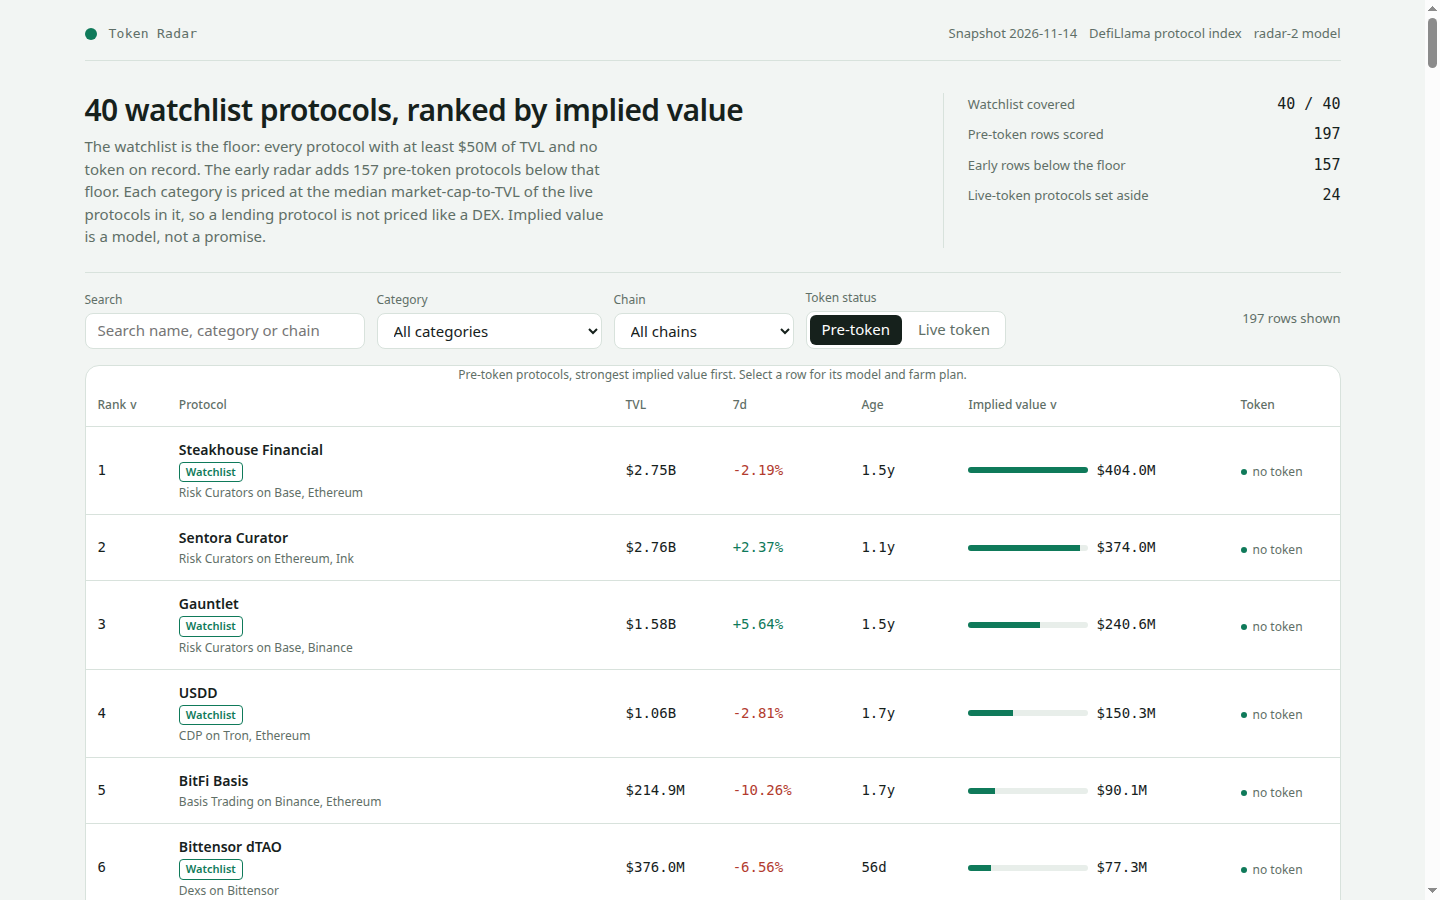
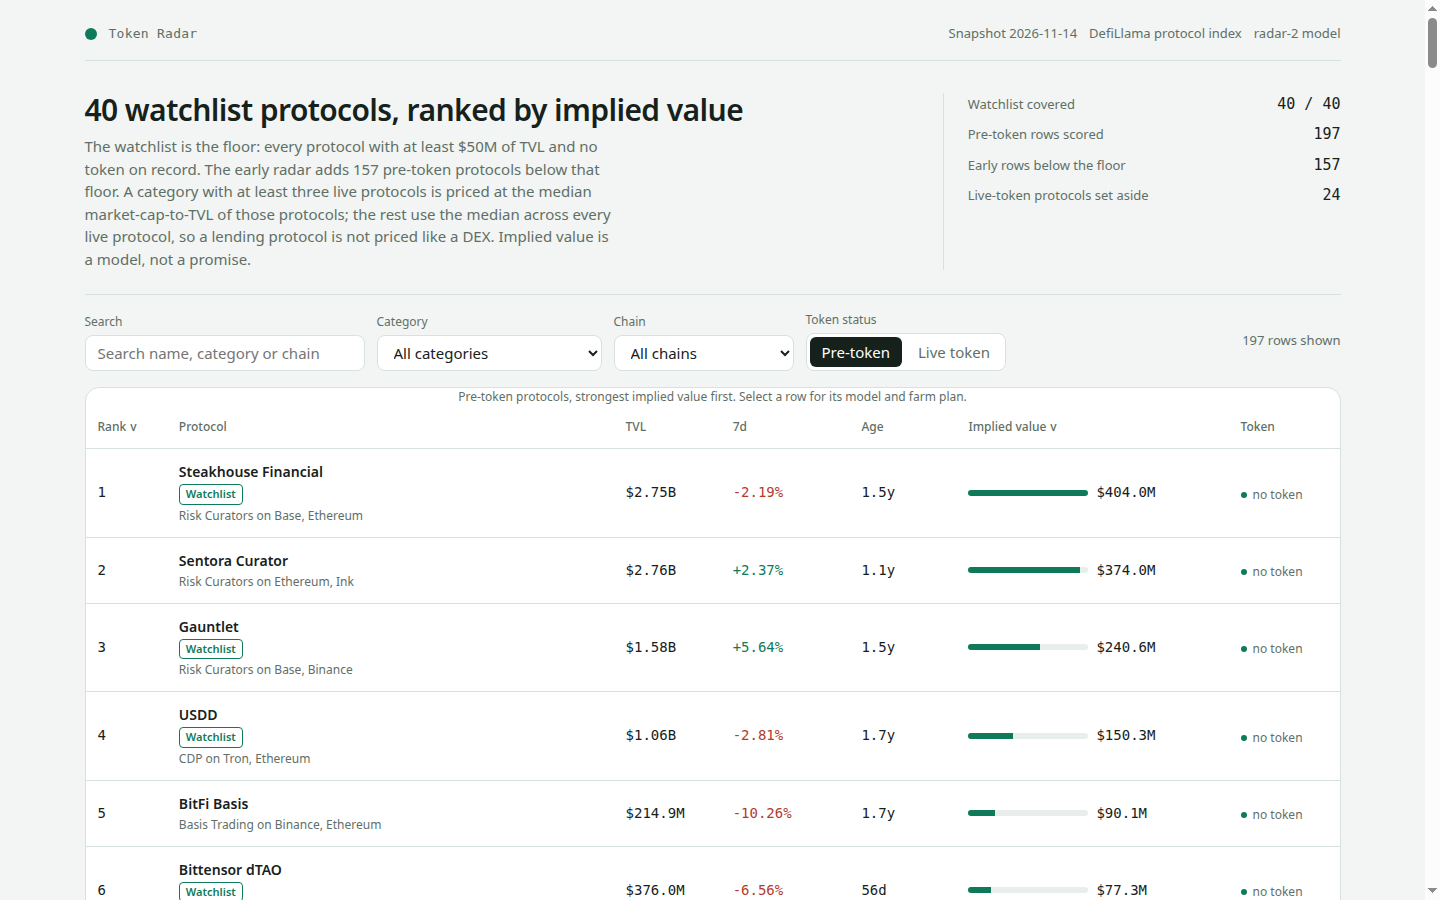
Token Radar: category-specific weekly farm actions and rewards checks
Farm plans were 5 generic steps out of 7: only the main action and the
second action depended on the category. Steps 4 (weekly action) and 6
(rewards check) are now category-specific too, from the same rule table
the main and second actions use, in lib/model.ts and in the page's own
generator in dashboard/app.js (verified identical for one row per rule).
The lede now states the fallback rule accurately instead of claiming
every category is priced from its own live protocols, and the detail
screenshot is retaken with the drawer scrolled to the full farm plan.
The value model is untouched: ranks and implied values are identical,
gate 7/7 PASS, two runs byte-identical.

diff --git a/lib/model.ts b/lib/model.ts
@@ -432,11 +432,14 @@ function holdDaysFor(age: number | null): number {
 }
 
 /** The category's main action, phrased so a farmer can follow it. */
-/** One category rule: how to spot the category, and the two actions that farm it. */
+/** One category rule: how to spot the category, and the four actions that farm it. */
 interface CategoryRule {
   match: (category: string) => boolean;
   main: (name: string, capital: number, chain: string) => string;
   second: (name: string, capital: number, chain: string, small: number) => string;
+  weekly: (name: string, capital: number, chain: string, small: number) => string;
+  weeklyCost: string;
+  rewards: (name: string) => string;
 }
 
 /** Whether a lowercased category contains any of these words. */
@@ -453,81 +456,129 @@ const CATEGORY_RULES: CategoryRule[] = [
     match: (c) => hasAny(c, ['lend', 'cdp', 'collateral']),
     main: (name, capital, chain) => `Supply $${capital} of USDC to ${name} on ${chain} and keep the position open.`,
     second: (name, capital, chain, small) => `Borrow $${small} against the supply on ${name}, then repay it in the same week.`,
+    weekly: (name, capital, chain, small) => `Each week, supply $${small} more to ${name} or borrow $${small} against the supply and repay it.`,
+    weeklyCost: 'about $2 of gas a week',
+    rewards: (name) => `Check ${name}'s rewards page for supply and borrow incentives and follow only the quests it lists there; never pay to claim and never use a link from a chat or a post.`,
   },
   {
     match: (c) => hasAny(c, ['dex', 'yield', 'leveraged farm', 'farm']),
     main: (name, capital, chain) => `Provide $${capital} of liquidity to ${name}'s main pool on ${chain} and keep the position open.`,
     second: (name, capital, chain) => `Make one swap through ${name}'s main pool on ${chain} for about $10 of volume.`,
+    weekly: (name, capital, chain, small) => `Each week, collect the fees ${name}'s pool earned and compound them back in.`,
+    weeklyCost: 'about $2 of gas a week',
+    rewards: (name) => `Check ${name}'s points page for LP and swap quests and follow only the quests it lists there; never pay to claim and never use a link from a chat or a post.`,
   },
   {
     match: (c) => hasAny(c, ['bridge']),
     main: (name, capital, chain) => `Bridge $${capital} of USDC to ${chain} through ${name} and use the bridged funds in its app.`,
     second: (name) => `Bridge a small amount back through ${name} so the round trip is on record.`,
+    weekly: (name, capital, chain, small) => `Each week, bridge $${small} to ${chain} through ${name} and use the bridged funds.`,
+    weeklyCost: 'about $2 of gas a week',
+    rewards: (name) => `Check ${name}'s rewards page for bridge quests and follow only the quests it lists there; never pay to claim and never use a link from a chat or a post.`,
   },
   {
     match: (c) => hasAny(c, ['staking', 'restak']),
     main: (name, capital) => `Stake $${capital} of the chain's staking asset through ${name} and keep the receipt.`,
     second: (name) => `Claim the staking rewards ${name} shows and restake them in the same position.`,
+    weekly: (name, capital, chain, small) => `Each week, top up the stake on ${name} by $${small}.`,
+    weeklyCost: 'about $2 of gas a week',
+    rewards: (name) => `Check ${name}'s staking page for staking quests and follow only the quests it lists there; never pay to claim and never use a link from a chat or a post.`,
   },
   {
     match: (c) => hasAny(c, ['perpetual', 'derivative', 'basis']),
     main: (name, capital) => `Deposit $${capital} of USDC as margin on ${name} and open one small hedge.`,
     second: (name) => `Close the hedge on ${name} and open a fresh one half its size.`,
+    weekly: (name, capital, chain, small) => `Each week, open one small hedge on ${name} and close it before the week ends.`,
+    weeklyCost: 'about $2 of gas a week',
+    rewards: (name) => `Check ${name}'s trading rewards page for volume quests and follow only the quests it lists there; never pay to claim and never use a link from a chat or a post.`,
   },
   {
     match: (c) => hasAny(c, ['prediction']),
     main: (name, capital) => `Fund $${capital} and place one market position on ${name}.`,
     second: (name) => `Settle one market on ${name} and place a second position in another.`,
+    weekly: (name, capital, chain, small) => `Each week, place a $10 market position on ${name} in a market closing that week.`,
+    weeklyCost: 'about $2 of gas a week',
+    rewards: (name) => `Check ${name}'s rewards page for market quests and follow only the quests it lists there; never pay to claim and never use a link from a chat or a post.`,
   },
   {
     match: (c) => hasAny(c, ['curator', 'allocator']),
     main: (name, capital, chain) => `Deposit $${capital} into a ${name} vault on ${chain} and keep the shares.`,
     second: (name, capital, chain, small) => `Move $${small} into a second ${name} vault on ${chain}.`,
+    weekly: (name, capital, chain, small) => `Each week, check the ${name} vaults' yields and move $${small} to the highest-yielding vault on ${chain}.`,
+    weeklyCost: 'about $2 of gas a week',
+    rewards: (name) => `Check ${name}'s vault rewards page for deposit quests and follow only the quests it lists there; never pay to claim and never use a link from a chat or a post.`,
   },
   {
     match: (c) => hasAny(c, ['stable']),
     main: (name, capital, chain) => `Mint or deposit $${capital} of the stable asset through ${name} on ${chain}.`,
     second: (name) => `Redeem a small part of the stable position on ${name} and mint it back.`,
+    weekly: (name, capital, chain, small) => `Each week, move $${small} of the stable asset through ${name} into a yield venue on ${chain}.`,
+    weeklyCost: 'about $2 of gas a week',
+    rewards: (name) => `Check ${name}'s rewards page for stable-mint quests and follow only the quests it lists there; never pay to claim and never use a link from a chat or a post.`,
   },
   {
     match: (c) => hasAny(c, ['rwa']),
     main: (name, capital, chain) => `Mint $${capital} of the protocol's yield asset on ${chain} and hold it.`,
     second: (name) => `Claim the yield the ${name} asset accrued and hold the rest.`,
+    weekly: (name, capital, chain, small) => `Each week, mint $${small} more of the ${name} yield asset on ${chain} and hold it.`,
+    weeklyCost: 'about $2 of gas a week',
+    rewards: (name) => `Check ${name}'s rewards page for holding quests and follow only the quests it lists there; never pay to claim and never use a link from a chat or a post.`,
   },
   {
     match: (c) => hasAny(c, ['insurance']),
     main: (name, capital, chain) => `Buy $${capital} of cover from ${name} on ${chain} and keep the policy.`,
     second: (name) => `File one test claim on ${name} to learn the flow, then keep the policy.`,
+    weekly: (name, capital, chain, small) => `Each week, check the ${name} cover on ${chain} and extend it before it lapses.`,
+    weeklyCost: 'the weekly premium, plus about $2 of gas',
+    rewards: (name) => `Check ${name}'s rewards page for cover quests and follow only the quests it lists there; never pay to claim and never use a link from a chat or a post.`,
   },
   {
     match: (c) => hasAny(c, ['options']),
     main: (name, capital, chain) => `Deposit $${capital} into an ${name} options vault on ${chain} and keep the shares.`,
     second: (name) => `Roll one options position in the ${name} vault to the next expiry.`,
+    weekly: (name, capital, chain, small) => `Each week, add $${small} to the ${name} options vault on ${chain} and keep the shares.`,
+    weeklyCost: 'about $2 of gas a week',
+    rewards: (name) => `Check ${name}'s vault rewards page for deposit quests and follow only the quests it lists there; never pay to claim and never use a link from a chat or a post.`,
   },
   {
     match: (c) => hasAny(c, ['index']),
     main: (name, capital, chain) => `Buy $${capital} of the ${name} index on ${chain} and hold it.`,
     second: (name) => `Rebalance the ${name} index holding once, then hold it again.`,
+    weekly: (name, capital, chain, small) => `Each week, buy $${small} more of the ${name} index on ${chain} and hold it.`,
+    weeklyCost: 'about $2 of gas a week',
+    rewards: (name) => `Check ${name}'s rewards page for holding quests and follow only the quests it lists there; never pay to claim and never use a link from a chat or a post.`,
   },
   {
     match: (c) => hasAny(c, ['payment', 'card']),
     main: (name, capital, chain) => `Top up $${capital} through ${name} on ${chain} and spend from the balance.`,
     second: (name) => `Make one purchase with the ${name} balance and top it up again.`,
+    weekly: (name, capital, chain, small) => `Each week, top up the ${name} balance by $${small} and spend it from the balance.`,
+    weeklyCost: 'about $2 of gas a week',
+    rewards: (name) => `Check ${name}'s rewards page for spend quests and follow only the quests it lists there; never pay to claim and never use a link from a chat or a post.`,
   },
   {
     match: (c) => hasAny(c, ['chain']),
     main: (name, capital, chain) => `Bridge $${capital} to ${chain} and use one native app on it through ${name}.`,
     second: (name, capital, chain) => `Use a second native app on ${chain} through ${name} in the same week.`,
+    weekly: (name, capital, chain, small) => `Each week, use a native app on ${chain} through ${name} that you have not used yet.`,
+    weeklyCost: 'about $2 of gas a week',
+    rewards: (name) => `Check ${name}'s ecosystem quests page for ecosystem quests and follow only the quests it lists there; never pay to claim and never use a link from a chat or a post.`,
   },
   {
     match: (c) => hasAny(c, ['privacy']),
     main: (name, capital, chain) => `Deposit $${capital} into ${name}'s shielded pool on ${chain} and keep the receipt.`,
     second: (name) => `Withdraw a small amount from the ${name} pool and deposit it back.`,
+    weekly: (name, capital, chain, small) => `Each week, move $${small} between two shielded pools on ${name}.`,
+    weeklyCost: 'about $2 of gas a week',
+    rewards: (name) => `Check ${name}'s rewards page for pool quests and follow only the quests it lists there; never pay to claim and never use a link from a chat or a post.`,
   },
   {
     match: () => true,
     main: (name, capital, chain) => `Deposit $${capital} of USDC into ${name} on ${chain} and keep the position open.`,
     second: (name) => `Do one more distinct action on ${name}, such as a swap, a vote or a second deposit.`,
+    weekly: (name, capital, chain, small) => `Each week, make one qualifying action on ${name}, such as a deposit, a borrow, a swap or a vote.`,
+    weeklyCost: 'about $2 of gas a week',
+    rewards: (name) => `Once a week open the protocol's own points or rewards page and follow only the quests it lists there; never pay to claim and never use a link from a chat or a post.`,
   },
 ];
 
@@ -551,9 +602,27 @@ function secondActionFor(p: SnapshotProtocol, capital: number, chain: string): s
   return ruleFor(p.category).second(p.name, capital, chain, small);
 }
 
+/** The category's weekly action: a small repeatable touch, so the plan keeps working week after week. */
+function weeklyActionFor(p: SnapshotProtocol, capital: number, chain: string): string {
+  const small = Math.max(10, Math.round(capital / 5));
+  return ruleFor(p.category).weekly(p.name, capital, chain, small);
+}
+
+/** The weekly action's cost, which the rule states because a premium is not gas. */
+function weeklyCostFor(p: SnapshotProtocol): string {
+  return ruleFor(p.category).weeklyCost;
+}
+
+/** The category's rewards check: which page to watch and what to follow there. */
+function rewardsActionFor(p: SnapshotProtocol): string {
+  return ruleFor(p.category).rewards(p.name);
+}
+
 /**
  * One protocol's farm plan: seven steps, each an action with a cost and a time. The plan is derived
  * from the protocol's own record (category, chains, TVL, age), never from a hand-written list of names.
+ * Steps 2, 3, 4 and 6 are category-specific; steps 1, 5 and 7 keep the same shape for every protocol
+ * because wallet hygiene, the hold and the log do not depend on the category.
  */
 export function farmSteps(p: SnapshotProtocol, age: number | null): FarmStep[] {
   const chain = chainOf(p);
@@ -576,8 +645,8 @@ export function farmSteps(p: SnapshotProtocol, age: number | null): FarmStep[] {
       time: '10 minutes',
     },
     {
-      text: `Make one qualifying action each week, such as a deposit, a borrow, a swap or a vote.`,
-      cost: 'about $2 of gas a week',
+      text: weeklyActionFor(p, capital, chain),
+      cost: weeklyCostFor(p),
       time: '10 minutes a week',
     },
     {
@@ -586,7 +655,7 @@ export function farmSteps(p: SnapshotProtocol, age: number | null): FarmStep[] {
       time: `${hold} days`,
     },
     {
-      text: `Once a week open the protocol's own points or rewards page and follow only the quests it lists there; never pay to claim and never use a link from a chat or a post.`,
+      text: rewardsActionFor(p),
       cost: 'no fee to check',
       time: '10 minutes a week',
     },

diff --git a/dashboard/app.js b/dashboard/app.js
@@ -120,6 +120,52 @@
     if (c.indexOf('privacy') >= 0) return 'Withdraw a small amount from the ' + name + ' pool and deposit it back.';
     return 'Do one more distinct action on ' + name + ', such as a swap, a vote or a second deposit.';
   }
+  function weeklyActionFor(p, capital, chain) {
+    var c = (p.category || '').toLowerCase();
+    var name = p.name;
+    var small = Math.max(10, Math.round(capital / 5));
+    if (c.indexOf('lend') >= 0 || c.indexOf('cdp') >= 0 || c.indexOf('collateral') >= 0) return 'Each week, supply $' + small + ' more to ' + name + ' or borrow $' + small + ' against the supply and repay it.';
+    if (c.indexOf('dex') >= 0 || c.indexOf('yield') >= 0 || c.indexOf('leveraged farm') >= 0 || c.indexOf('farm') >= 0) return "Each week, collect the fees " + name + "'s pool earned and compound them back in.";
+    if (c.indexOf('bridge') >= 0) return 'Each week, bridge $' + small + ' to ' + chain + ' through ' + name + ' and use the bridged funds.';
+    if (c.indexOf('staking') >= 0 || c.indexOf('restak') >= 0) return 'Each week, top up the stake on ' + name + ' by $' + small + '.';
+    if (c.indexOf('perpetual') >= 0 || c.indexOf('derivative') >= 0 || c.indexOf('basis') >= 0) return 'Each week, open one small hedge on ' + name + ' and close it before the week ends.';
+    if (c.indexOf('prediction') >= 0) return 'Each week, place a $10 market position on ' + name + ' in a market closing that week.';
+    if (c.indexOf('curator') >= 0 || c.indexOf('allocator') >= 0) return "Each week, check the " + name + " vaults' yields and move $" + small + ' to the highest-yielding vault on ' + chain + '.';
+    if (c.indexOf('stable') >= 0) return 'Each week, move $' + small + ' of the stable asset through ' + name + ' into a yield venue on ' + chain + '.';
+    if (c.indexOf('rwa') >= 0) return 'Each week, mint $' + small + ' more of the ' + name + ' yield asset on ' + chain + ' and hold it.';
+    if (c.indexOf('insurance') >= 0) return 'Each week, check the ' + name + ' cover on ' + chain + ' and extend it before it lapses.';
+    if (c.indexOf('options') >= 0) return 'Each week, add $' + small + ' to the ' + name + ' options vault on ' + chain + ' and keep the shares.';
+    if (c.indexOf('index') >= 0) return 'Each week, buy $' + small + ' more of the ' + name + ' index on ' + chain + ' and hold it.';
+    if (c.indexOf('payment') >= 0 || c.indexOf('card') >= 0) return 'Each week, top up the ' + name + ' balance by $' + small + ' and spend it from the balance.';
+    if (c.indexOf('chain') >= 0) return 'Each week, use a native app on ' + chain + ' through ' + name + ' that you have not used yet.';
+    if (c.indexOf('privacy') >= 0) return 'Each week, move $' + small + ' between two shielded pools on ' + name + '.';
+    return 'Each week, make one qualifying action on ' + name + ', such as a deposit, a borrow, a swap or a vote.';
+  }
+  function weeklyCostFor(p) {
+    var c = (p.category || '').toLowerCase();
+    if (c.indexOf('insurance') >= 0) return 'the weekly premium, plus about $2 of gas';
+    return 'about $2 of gas a week';
+  }
+  function rewardsActionFor(p) {
+    var c = (p.category || '').toLowerCase();
+    var name = p.name;
+    if (c.indexOf('lend') >= 0 || c.indexOf('cdp') >= 0 || c.indexOf('collateral') >= 0) return "Check " + name + "'s rewards page for supply and borrow incentives and follow only the quests it lists there; never pay to claim and never use a link from a chat or a post.";
+    if (c.indexOf('dex') >= 0 || c.indexOf('yield') >= 0 || c.indexOf('leveraged farm') >= 0 || c.indexOf('farm') >= 0) return "Check " + name + "'s points page for LP and swap quests and follow only the quests it lists there; never pay to claim and never use a link from a chat or a post.";
+    if (c.indexOf('bridge') >= 0) return "Check " + name + "'s rewards page for bridge quests and follow only the quests it lists there; never pay to claim and never use a link from a chat or a post.";
+    if (c.indexOf('staking') >= 0 || c.indexOf('restak') >= 0) return "Check " + name + "'s staking page for staking quests and follow only the quests it lists there; never pay to claim and never use a link from a chat or a post.";
+    if (c.indexOf('perpetual') >= 0 || c.indexOf('derivative') >= 0 || c.indexOf('basis') >= 0) return "Check " + name + "'s trading rewards page for volume quests and follow only the quests it lists there; never pay to claim and never use a link from a chat or a post.";
+    if (c.indexOf('prediction') >= 0) return "Check " + name + "'s rewards page for market quests and follow only the quests it lists there; never pay to claim and never use a link from a chat or a post.";
+    if (c.indexOf('curator') >= 0 || c.indexOf('allocator') >= 0) return "Check " + name + "'s vault rewards page for deposit quests and follow only the quests it lists there; never pay to claim and never use a link from a chat or a post.";
+    if (c.indexOf('stable') >= 0) return "Check " + name + "'s rewards page for stable-mint quests and follow only the quests it lists there; never pay to claim and never use a link from a chat or a post.";
+    if (c.indexOf('rwa') >= 0) return "Check " + name + "'s rewards page for holding quests and follow only the quests it lists there; never pay to claim and never use a link from a chat or a post.";
+    if (c.indexOf('insurance') >= 0) return "Check " + name + "'s rewards page for cover quests and follow only the quests it lists there; never pay to claim and never use a link from a chat or a post.";
+    if (c.indexOf('options') >= 0) return "Check " + name + "'s vault rewards page for deposit quests and follow only the quests it lists there; never pay to claim and never use a link from a chat or a post.";
+    if (c.indexOf('index') >= 0) return "Check " + name + "'s rewards page for holding quests and follow only the quests it lists there; never pay to claim and never use a link from a chat or a post.";
+    if (c.indexOf('payment') >= 0 || c.indexOf('card') >= 0) return "Check " + name + "'s rewards page for spend quests and follow only the quests it lists there; never pay to claim and never use a link from a chat or a post.";
+    if (c.indexOf('chain') >= 0) return "Check " + name + "'s ecosystem quests page for ecosystem quests and follow only the quests it lists there; never pay to claim and never use a link from a chat or a post.";
+    if (c.indexOf('privacy') >= 0) return "Check " + name + "'s rewards page for pool quests and follow only the quests it lists there; never pay to claim and never use a link from a chat or a post.";
+    return "Once a week open the protocol's own points or rewards page and follow only the quests it lists there; never pay to claim and never use a link from a chat or a post.";
+  }
   function stepText(step) {
     var s = step.text + ' Cost: ' + step.cost + '. Time: ' + step.time + '.';
     if (s.length > 600) s = s.slice(0, 596) + '...';
@@ -134,9 +180,9 @@
       { text: 'Use a fresh wallet that holds only the funds you plan to farm, and keep its seed phrase offline.', cost: 'under $3 of gas for the first transaction', time: '5 minutes' },
       { text: actionFor(p, capital, chain), cost: '$' + capital + ' of capital and about $' + (capital >= 150 ? 8 : 4) + ' of gas', time: '15 minutes to set up' },
       { text: secondActionFor(p, capital, chain), cost: 'about $' + (capital >= 150 ? 5 : 2) + ' of gas', time: '10 minutes' },
-      { text: 'Make one qualifying action each week, such as a deposit, a borrow, a swap or a vote.', cost: 'about $2 of gas a week', time: '10 minutes a week' },
+      { text: weeklyActionFor(p, capital, chain), cost: weeklyCostFor(p), time: '10 minutes a week' },
       { text: 'Hold the position for at least ' + hold + ' days so the activity is counted in more than one snapshot.', cost: 'the $' + capital + ' stays in the position', time: hold + ' days' },
-      { text: "Once a week open the protocol's own points or rewards page and follow only the quests it lists there; never pay to claim and never use a link from a chat or a post.", cost: 'no fee to check', time: '10 minutes a week' },
+      { text: rewardsActionFor(p), cost: 'no fee to check', time: '10 minutes a week' },
       { text: 'Write the wallet, the dates and every transaction in a farm log so you can repeat the position or unwind it.', cost: 'nothing but the log', time: '5 minutes' }
     ].map(stepText);
   }
@@ -201,7 +247,7 @@
     return el('section', { class: 'lede' },
       el('div', null,
         el('h1', { text: DATA.watchlist_size + ' watchlist protocols, ranked by implied value' }),
-        el('p', { text: 'The watchlist is the floor: every protocol with at least $' + Math.round(DATA.floor_usd / 1e6) + 'M of TVL and no token on record. The early radar adds ' + DATA.early_size + ' pre-token protocols below that floor. Each category is priced at the median market-cap-to-TVL of the live protocols in it, so a lending protocol is not priced like a DEX. Implied value is a model, not a promise.' })
+        el('p', { text: 'The watchlist is the floor: every protocol with at least $' + Math.round(DATA.floor_usd / 1e6) + 'M of TVL and no token on record. The early radar adds ' + DATA.early_size + ' pre-token protocols below that floor. A category with at least three live protocols is priced at the median market-cap-to-TVL of those protocols; the rest use the median across every live protocol, so a lending protocol is not priced like a DEX. Implied value is a model, not a promise.' })
       ),
       el('div', { class: 'facts' },
         el('div', { class: 'fact' }, el('span', { text: 'Watchlist covered' }), el('b', { text: DATA.watchlist_size + ' / ' + DATA.watchlist_size })),
@@ -381,7 +427,7 @@
     var recomputed = impliedOf(row, DATA.model);
     var calNote = row.calibration_source === 'category'
       ? 'median of ' + row.calibration_n + ' live ' + (row.category || 'Other') + ' protocols'
-      : 'fallback: median of every live protocol';
+      : 'fallback: median of all live protocols';
     dialog.appendChild(el('div', { class: 'detail-head' },
       el('div', null,
         el('span', { class: 'brand-name', text: 'Rank ' + row.rank + ' of ' + DATA.board_size + (WATCHLIST[row.slug] ? ' - Watchlist' : '') }),

diff --git a/README.md b/README.md
@@ -24,7 +24,7 @@ implied = round(tvl_usd x category_multiple
 
 **Who gets ranked** mirrors the watchlist's own definition: pre-token only, leaving out the CEX, Bridge, Canonical Bridge, Liquid Staking, Liquid Restaking and Restaked BTC categories, version-marked names, names carrying a whole word `wrapped` / `staked` / `staking` / `restaking` / `restaked`, and names beginning with an exchange name. A wrapped, staked or bridged product of a token that already trades is never ranked as a launch candidate — WBTC is Bitcoin on Ethereum, not a protocol still waiting on a launch.
 
-**Farm plans** give each protocol seven steps, built from its category, chains, TVL and age: a fresh wallet, a category-specific main action with capital and gas, a second distinct qualifying action, a weekly cadence, a hold period, a points-page check, and a farm log. Every step states its cost and time.
+**Farm plans** give each protocol seven steps, built from its category, chains, TVL and age: a fresh wallet, a category-specific main action with capital and gas, a second distinct qualifying action, a category-specific weekly action, a hold period, a category-specific rewards check, and a farm log. Every step states its cost and time.
 
 **The dashboard** (`dashboard/`) is a static page with no network: a sortable, filterable board (search, category, chain), a Live token view that sets the already-trading protocols aside with their market caps, a per-protocol detail drawer that recomputes the row from the snapshot figures and checks it against `board.json`, plus the model formula and the full category-calibration table.
 
